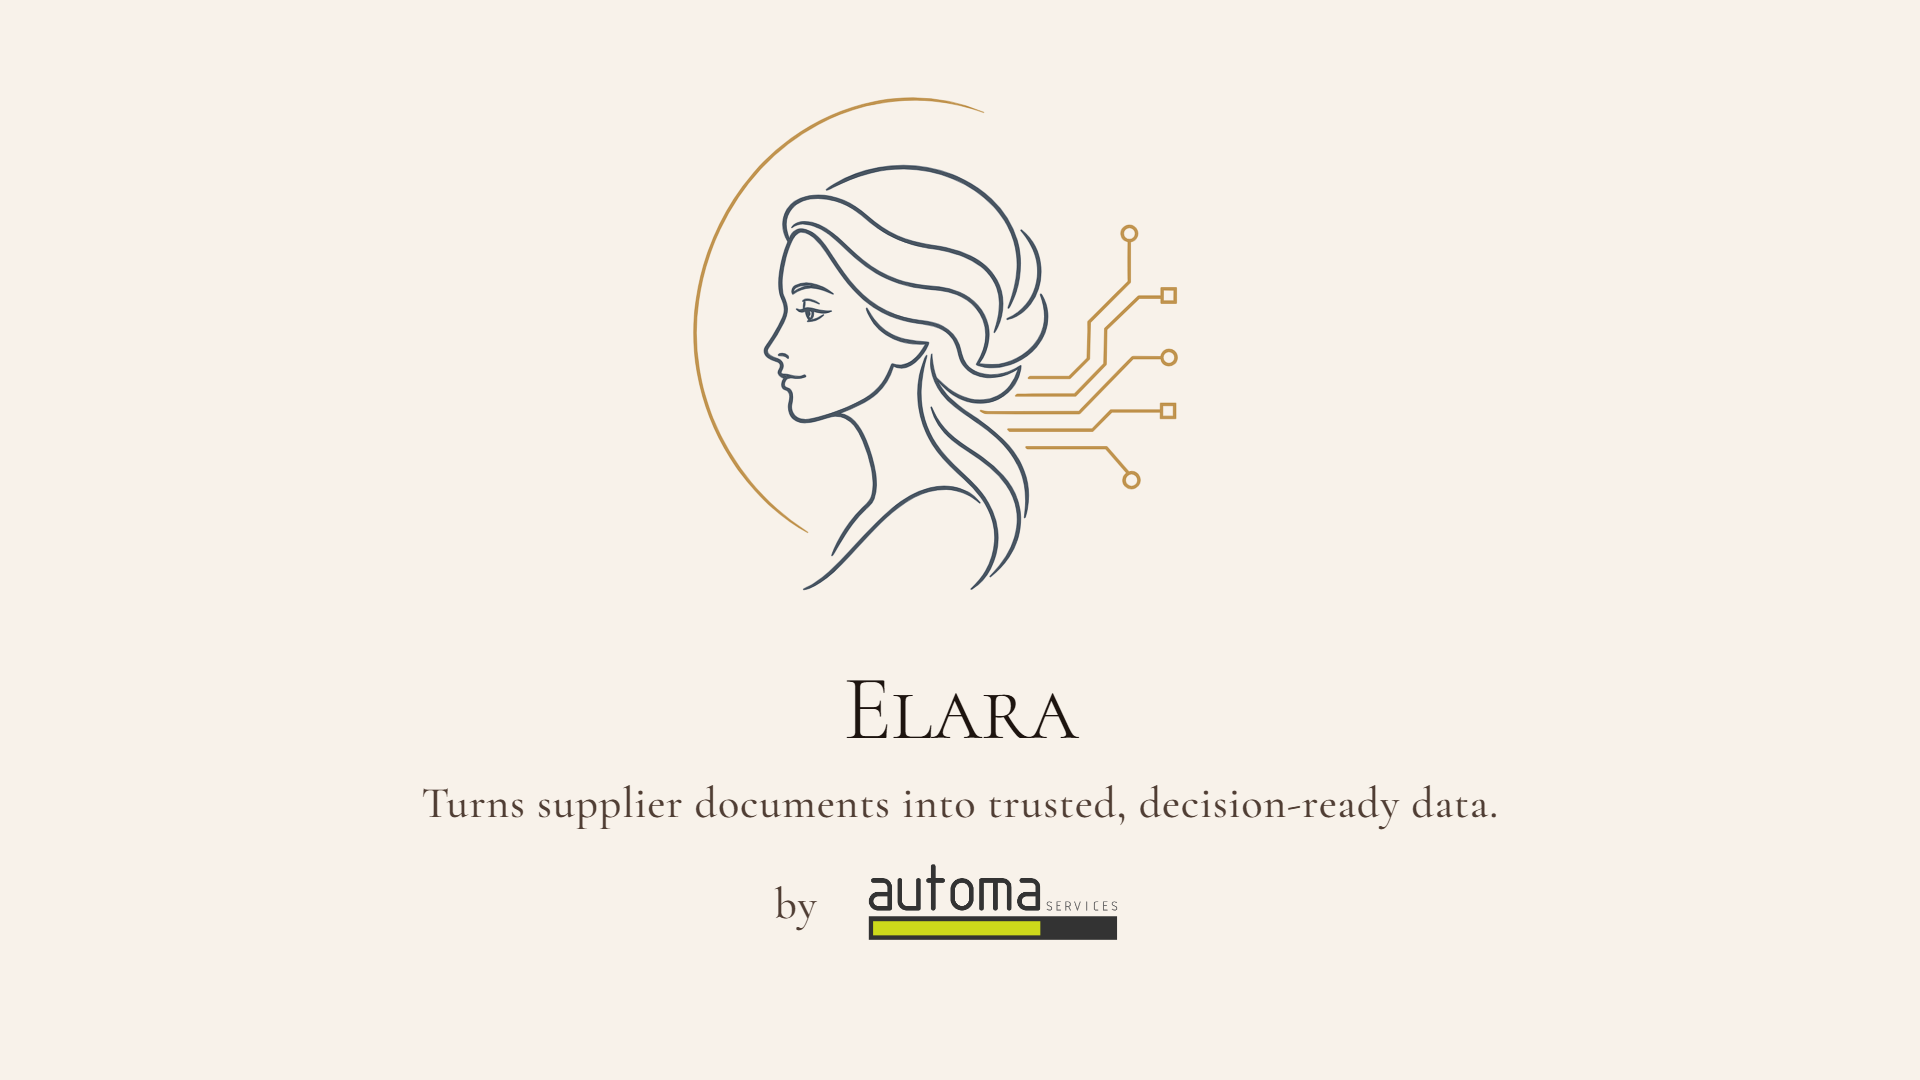
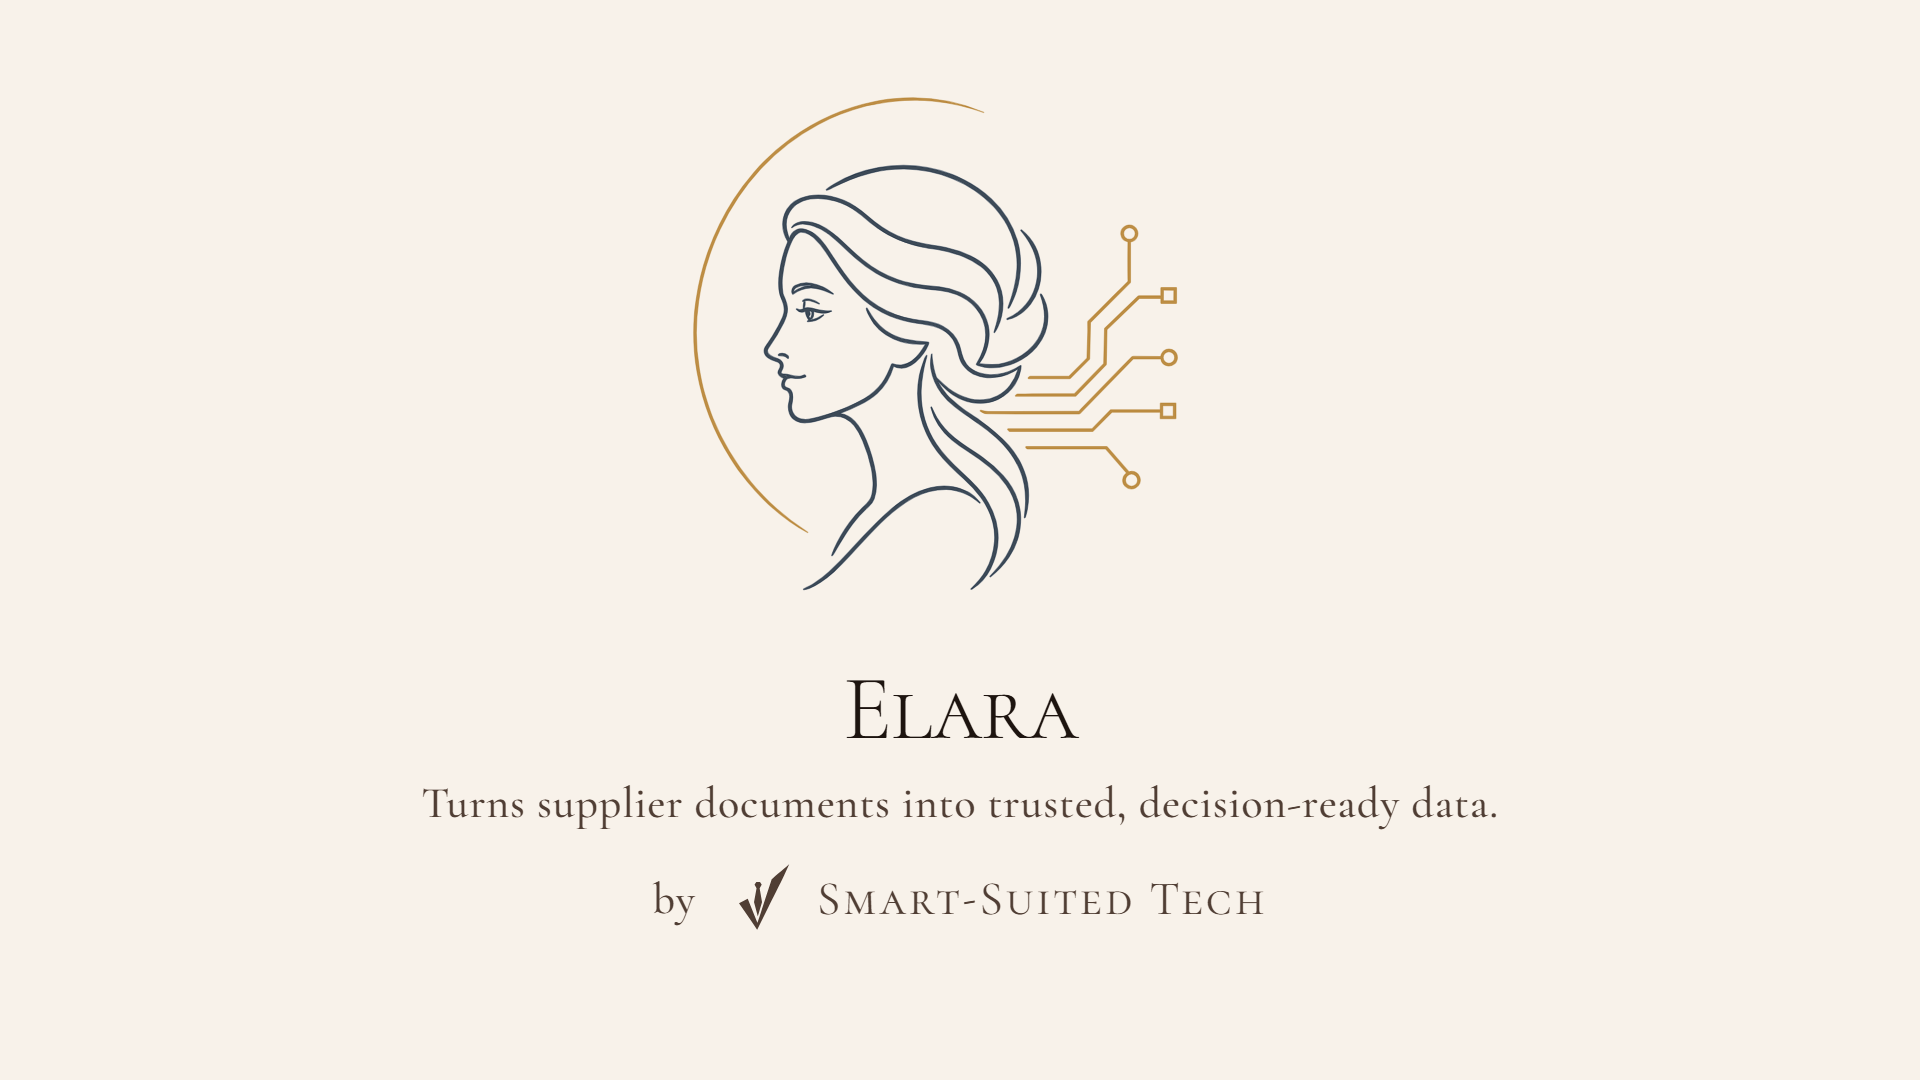
Update landing page; add smart-suited mark and gitignore Claude Design artifacts

Changed region(s): [[0.3438, 0.7944, 0.6562, 0.8861]]

diff --git a/index.html b/index.html
@@ -4,7 +4,7 @@
 <meta charset="utf-8" />
 <meta name="viewport" content="width=device-width, initial-scale=1" />
 <title>Elara — Document Reconciliation Engine</title>
-<meta name="description" content="Elara turns supplier documents into trusted, decision-ready data. An AI document reconciliation engine for regulated industries. A product of Automa Services." />
+<meta name="description" content="Elara turns supplier documents into trusted, decision-ready data. An AI document reconciliation engine for regulated industries. A product of Smart-Suited Tech." />
 <meta property="og:title" content="Elara — Document Reconciliation Engine" />
 <meta property="og:description" content="A database tells you what was true. Elara tells you what's true now." />
 <meta property="og:image" content="assets/elara-video-poster.png" />
@@ -73,6 +73,17 @@ a{color:inherit;}
 .nav__link:hover{color:var(--ink);}
 .nav__link:hover::after{transform:scaleX(1);}
 .nav__cta{margin-left:auto;}
+/* back-to-house button — returns the visitor to the Smart-Suited Tech site */
+.nav__home{margin-left:auto; display:inline-flex; align-items:center; gap:10px; text-decoration:none;
+  border:1px solid var(--border); border-radius:var(--radius); padding:8px 16px 8px 13px;
+  background:var(--surface); color:var(--text-muted); transition:color .28s var(--ease), border-color .28s var(--ease), background .28s var(--ease), box-shadow .28s var(--ease);}
+.nav__home:hover{color:var(--ink); border-color:var(--primary); box-shadow:var(--shadow-sm);}
+.nav__home .arr{width:15px; height:15px; stroke-width:1.75; color:var(--accent-warm); flex-shrink:0; transition:transform .28s var(--ease);}
+.nav__home:hover .arr{transform:translateX(-3px);}
+.nav__home .mark{width:17px; height:17px; flex-shrink:0; display:block; color:var(--accent-warm);}
+.nav__home .lbl{font-family:var(--font-wordmark); font-weight:300; font-size:17px; letter-spacing:-.01em; line-height:1; white-space:nowrap;}
+.nav__home .lbl .pre{display:block; font-family:var(--font-sans); font-weight:400; font-size:9.5px; letter-spacing:.18em; text-transform:uppercase; color:var(--text-muted); margin-bottom:2px;}
+@media (max-width:560px){ .nav__home .lbl .full{display:none;} }
 
 /* ---------- hero ---------- */
 .hero{position:relative; text-align:center; padding:72px 48px 22px; overflow:hidden;}
@@ -248,6 +259,10 @@ a{color:inherit;}
 .footer__automa:hover{opacity:1;}
 .footer__by{font-size:12px; color:rgba(247,240,232,.5);}
 .footer__automa img{height:22px; object-fit:contain;}
+/* Smart-Suited Tech parent lockup (mark + wordmark, recolours via currentColor) */
+.sst-lockup{display:inline-flex; align-items:center; gap:9px; text-decoration:none;}
+.sst-mark{width:21px; height:21px; flex-shrink:0; display:block;}
+.sst-word{font-family:var(--font-wordmark); font-weight:400; font-size:18px; letter-spacing:-.01em; white-space:nowrap;}
 .footer__url{font-size:12.5px; color:rgba(247,240,232,.45); letter-spacing:.03em;}
 .footer__bar{border-top:1px solid rgba(247,240,232,.14); margin-top:44px; padding-top:22px;}
 .footer__bar .wrap{display:flex; justify-content:space-between; align-items:center; gap:20px;}
@@ -297,6 +312,12 @@ a{color:inherit;}
     <a class="nav__link" href="#why">Why Elara</a>
   </nav>
 
+  <a class="nav__home" href="https://smartsuitedtech.com" aria-label="Back to the Smart-Suited Tech site">
+    <svg class="arr" viewBox="0 0 24 24" fill="none" stroke="currentColor" stroke-width="1.75" stroke-linecap="round" stroke-linejoin="round"><line x1="19" y1="12" x2="5" y2="12"></line><polyline points="12 19 5 12 12 5"></polyline></svg>
+    <svg class="mark" viewBox="0 0 1254 1254" fill="currentColor" aria-hidden="true"><path d="M 1057.16 144.58 A 0.26 0.26 0.0 0 1 1057.57 144.89 C 1035.09 195.72 1010.14 249.31 985.42 301.19 Q 944.19 387.77 923.05 430.08 Q 906.02 464.13 874.13 527.50 Q 871.39 532.93 867.12 541.46 Q 834.12 607.34 816.81 641.92 Q 793.29 688.90 766.92 742.61 Q 718.28 841.67 665.70 948.42 Q 635.93 1008.87 606.56 1067.92 A 0.50 0.50 0.0 0 1 605.69 1067.97 Q 562.76 1002.91 504.10 916.88 Q 432.44 811.81 353.16 697.57 Q 351.94 695.80 350.62 693.38 A 0.57 0.56 -28.3 0 1 350.86 692.61 L 472.52 630.94 A 0.59 0.59 0.0 0 1 473.34 631.25 L 609.51 969.00 A 0.26 0.26 0.0 0 0 610.00 968.98 Q 627.01 918.15 629.26 911.38 Q 630.97 906.28 659.82 819.33 Q 677.33 766.56 690.05 727.15 Q 724.39 620.73 806.65 370.66 Q 807.70 367.47 810.94 357.25 A 5.18 5.17 78.4 0 1 812.47 354.92 Q 856.26 316.50 902.76 276.51 Q 1014.79 180.17 1033.27 164.53 Q 1037.24 161.17 1057.16 144.58 Z"></path><path d="M 615.77 878.01 A 0.48 0.48 0.0 0 1 614.84 878.00 L 562.43 680.40 A 9.21 9.15 42.9 0 1 562.27 676.43 C 573.57 613.40 586.35 548.29 597.65 481.92 A 0.97 0.94 -55.4 0 0 597.55 481.32 L 570.32 432.20 A 0.97 0.96 -43.6 0 1 570.35 431.21 L 592.37 396.64 A 1.70 1.68 -73.5 0 1 593.79 395.86 L 647.41 395.86 A 1.20 1.20 0.0 0 1 648.44 396.44 L 669.28 431.16 A 1.27 1.24 -46.0 0 1 669.29 432.42 L 641.66 481.25 A 2.15 2.14 -35.3 0 0 641.41 482.70 L 674.61 677.51 A 6.72 6.68 -41.6 0 1 674.42 680.55 L 615.77 878.01 Z"></path></svg>
+    <span class="lbl"><span class="pre">Back to</span><span class="full">Smart-Suited Tech</span></span>
+  </a>
+
 </header>
 
 <!-- ============ HERO ============ -->
@@ -306,7 +327,7 @@ a{color:inherit;}
     <h1 class="hero__head">A database tells you what was true.<br />Elara tells you <span class="amber">what's true now.</span></h1>
     <p class="hero__body">An AI reconciliation engine for regulated industries. Elara cross-checks every specification, formula and certificate against the live record — and shows you, with evidence, exactly what changed.</p>
     <div class="hero__actions">
-      <a class="btn btn--primary" href="mailto:elara@automaservices.com?subject=Elara%20%E2%80%94%20book%20a%20pilot">Book a four-week pilot</a>
+      <a class="btn btn--primary" href="mailto:contact@smartsuitedtech.com?subject=Elara%20%E2%80%94%20book%20a%20pilot">Book a four-week pilot</a>
       <a class="btn btn--ghost" href="#film" onclick="playFilm(); return false;"><svg class="i" viewBox="0 0 24 24" fill="none" stroke="currentColor" stroke-width="1.75" stroke-linecap="round" stroke-linejoin="round"><polygon points="6 4 20 12 6 20 6 4"></polygon></svg>Watch the film</a>
     </div>
     <p class="hero__proof">First proven in cosmetics with RCMA Makeup. Pharma, food, chemicals — next.</p>
@@ -324,7 +345,7 @@ a{color:inherit;}
     <figure class="film__frame">
       <div class="film__media" id="filmMedia">
         <button class="film__btn" id="filmBtn" aria-label="Play the Elara showcase film">
-          <img class="film__poster" src="assets/elara-video-poster.png" width="1920" height="1080" alt="Elara — turns supplier documents into trusted, decision-ready data. A product of Automa Services." />
+          <img class="film__poster" src="assets/elara-video-poster.png" width="1920" height="1080" alt="Elara — turns supplier documents into trusted, decision-ready data. A product of Smart-Suited Tech." />
           <span class="film__pulse" aria-hidden="true"></span>
           <span class="film__play" aria-hidden="true"><svg viewBox="0 0 24 24"><polygon points="7 5 20 12 7 19 7 5"></polygon></svg></span>
         </button>
@@ -465,13 +486,16 @@ a{color:inherit;}
       <h2 class="why__sig">Built by the people who <span class="amber">understand your work.</span></h2>
     </div>
     <div class="why__body">
-      <p class="reveal" style="--d:.08s">Most AI vendors are technologists guessing at regulated workflows. <strong>Automa came from those workflows</strong> — a process-improvement and regulated-operations background, with the six-sigma DNA to match.</p>
+      <p class="reveal" style="--d:.08s">Most AI vendors are technologists guessing at regulated workflows. <strong>Smart-Suited Tech came from those workflows</strong> — a process-improvement and regulated-operations background, with the six-sigma DNA to match.</p>
       <p class="reveal" style="--d:.16s">That means Elara was built by people who have lived the actual operational problem it solves: the contradictory documents, the audit questions, the cost of getting reconciliation wrong.</p>
     </div>
     <div class="why__foot reveal" style="--d:.24s">
       <span class="by">a product of</span>
       <span class="div"></span>
-      <a href="https://automaservices.com" target="_blank" rel="noreferrer"><img src="assets/automa-logo.png" alt="Automa Services" /></a>
+      <a class="sst-lockup" href="https://smartsuitedtech.com" target="_blank" rel="noreferrer" style="color:var(--ink);">
+        <svg class="sst-mark" viewBox="0 0 1254 1254" fill="currentColor" aria-hidden="true"><path d="M 1057.16 144.58 A 0.26 0.26 0.0 0 1 1057.57 144.89 C 1035.09 195.72 1010.14 249.31 985.42 301.19 Q 944.19 387.77 923.05 430.08 Q 906.02 464.13 874.13 527.50 Q 871.39 532.93 867.12 541.46 Q 834.12 607.34 816.81 641.92 Q 793.29 688.90 766.92 742.61 Q 718.28 841.67 665.70 948.42 Q 635.93 1008.87 606.56 1067.92 A 0.50 0.50 0.0 0 1 605.69 1067.97 Q 562.76 1002.91 504.10 916.88 Q 432.44 811.81 353.16 697.57 Q 351.94 695.80 350.62 693.38 A 0.57 0.56 -28.3 0 1 350.86 692.61 L 472.52 630.94 A 0.59 0.59 0.0 0 1 473.34 631.25 L 609.51 969.00 A 0.26 0.26 0.0 0 0 610.00 968.98 Q 627.01 918.15 629.26 911.38 Q 630.97 906.28 659.82 819.33 Q 677.33 766.56 690.05 727.15 Q 724.39 620.73 806.65 370.66 Q 807.70 367.47 810.94 357.25 A 5.18 5.17 78.4 0 1 812.47 354.92 Q 856.26 316.50 902.76 276.51 Q 1014.79 180.17 1033.27 164.53 Q 1037.24 161.17 1057.16 144.58 Z"></path><path d="M 615.77 878.01 A 0.48 0.48 0.0 0 1 614.84 878.00 L 562.43 680.40 A 9.21 9.15 42.9 0 1 562.27 676.43 C 573.57 613.40 586.35 548.29 597.65 481.92 A 0.97 0.94 -55.4 0 0 597.55 481.32 L 570.32 432.20 A 0.97 0.96 -43.6 0 1 570.35 431.21 L 592.37 396.64 A 1.70 1.68 -73.5 0 1 593.79 395.86 L 647.41 395.86 A 1.20 1.20 0.0 0 1 648.44 396.44 L 669.28 431.16 A 1.27 1.24 -46.0 0 1 669.29 432.42 L 641.66 481.25 A 2.15 2.14 -35.3 0 0 641.41 482.70 L 674.61 677.51 A 6.72 6.68 -41.6 0 1 674.42 680.55 L 615.77 878.01 Z"></path></svg>
+        <span class="sst-word">Smart-Suited Tech</span>
+      </a>
     </div>
   </div>
 </section>
@@ -484,7 +508,7 @@ a{color:inherit;}
     <p class="close__couplet">The same pilot RCMA Makeup ran is <em>available to you.</em></p>
     <p class="close__sig">Built by the people who understand your work.</p>
     <div class="close__actions">
-      <a class="btn btn--amber" href="mailto:elara@automaservices.com?subject=Elara%20%E2%80%94%20book%20a%20pilot">Book a four-week production-readiness pilot</a>
+      <a class="btn btn--amber" href="mailto:contact@smartsuitedtech.com?subject=Elara%20%E2%80%94%20book%20a%20pilot">Book a four-week production-readiness pilot</a>
       <a class="btn btn--ghost" href="#film" onclick="playFilm(); return false;">Watch the film again</a>
     </div>
   </div>
@@ -500,20 +524,23 @@ a{color:inherit;}
       </div>
       <p class="footer__blurb">Document Reconciliation Engine for regulated industries. A database tells you what was true — Elara tells you what's true now.</p>
       <div class="footer__contact">
-        <a href="mailto:elara@automaservices.com"><svg class="i" viewBox="0 0 24 24" fill="none" stroke="currentColor" stroke-width="1.6" stroke-linecap="round" stroke-linejoin="round"><rect x="2" y="4" width="20" height="16" rx="2"></rect><path d="m22 7-10 6L2 7"></path></svg>elara@automaservices.com</a>
+        <a href="mailto:contact@smartsuitedtech.com"><svg class="i" viewBox="0 0 24 24" fill="none" stroke="currentColor" stroke-width="1.6" stroke-linecap="round" stroke-linejoin="round"><rect x="2" y="4" width="20" height="16" rx="2"></rect><path d="m22 7-10 6L2 7"></path></svg>contact@smartsuitedtech.com</a>
       </div>
     </div>
     <div class="footer__right">
-      <a class="footer__automa" href="https://automaservices.com" target="_blank" rel="noreferrer">
+      <a class="footer__automa" href="https://smartsuitedtech.com" target="_blank" rel="noreferrer">
         <span class="footer__by">a product of</span>
-        <img src="assets/automa-logo-white.png" alt="Automa Services" />
+        <span class="sst-lockup" style="color:var(--cream);">
+          <svg class="sst-mark" viewBox="0 0 1254 1254" fill="currentColor" aria-hidden="true"><path d="M 1057.16 144.58 A 0.26 0.26 0.0 0 1 1057.57 144.89 C 1035.09 195.72 1010.14 249.31 985.42 301.19 Q 944.19 387.77 923.05 430.08 Q 906.02 464.13 874.13 527.50 Q 871.39 532.93 867.12 541.46 Q 834.12 607.34 816.81 641.92 Q 793.29 688.90 766.92 742.61 Q 718.28 841.67 665.70 948.42 Q 635.93 1008.87 606.56 1067.92 A 0.50 0.50 0.0 0 1 605.69 1067.97 Q 562.76 1002.91 504.10 916.88 Q 432.44 811.81 353.16 697.57 Q 351.94 695.80 350.62 693.38 A 0.57 0.56 -28.3 0 1 350.86 692.61 L 472.52 630.94 A 0.59 0.59 0.0 0 1 473.34 631.25 L 609.51 969.00 A 0.26 0.26 0.0 0 0 610.00 968.98 Q 627.01 918.15 629.26 911.38 Q 630.97 906.28 659.82 819.33 Q 677.33 766.56 690.05 727.15 Q 724.39 620.73 806.65 370.66 Q 807.70 367.47 810.94 357.25 A 5.18 5.17 78.4 0 1 812.47 354.92 Q 856.26 316.50 902.76 276.51 Q 1014.79 180.17 1033.27 164.53 Q 1037.24 161.17 1057.16 144.58 Z"></path><path d="M 615.77 878.01 A 0.48 0.48 0.0 0 1 614.84 878.00 L 562.43 680.40 A 9.21 9.15 42.9 0 1 562.27 676.43 C 573.57 613.40 586.35 548.29 597.65 481.92 A 0.97 0.94 -55.4 0 0 597.55 481.32 L 570.32 432.20 A 0.97 0.96 -43.6 0 1 570.35 431.21 L 592.37 396.64 A 1.70 1.68 -73.5 0 1 593.79 395.86 L 647.41 395.86 A 1.20 1.20 0.0 0 1 648.44 396.44 L 669.28 431.16 A 1.27 1.24 -46.0 0 1 669.29 432.42 L 641.66 481.25 A 2.15 2.14 -35.3 0 0 641.41 482.70 L 674.61 677.51 A 6.72 6.68 -41.6 0 1 674.42 680.55 L 615.77 878.01 Z"></path></svg>
+          <span class="sst-word">Smart-Suited Tech</span>
+        </span>
       </a>
-      <span class="footer__url">automaservices.com/elara</span>
+      <span class="footer__url">smartsuitedtech.com/elara</span>
     </div>
   </div>
   <div class="footer__bar">
     <div class="wrap">
-      <span class="footer__copy">© 2026 Automa Services. All rights reserved.</span>
+      <span class="footer__copy">© 2026 Smart-Suited Tech. All rights reserved.</span>
       <span class="footer__copy">First proven in cosmetics with RCMA Makeup. Pharma, food, chemicals — next.</span>
     </div>
   </div>
